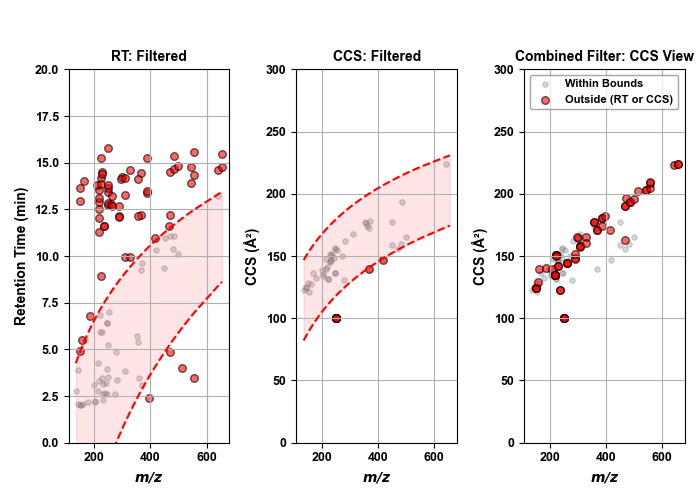
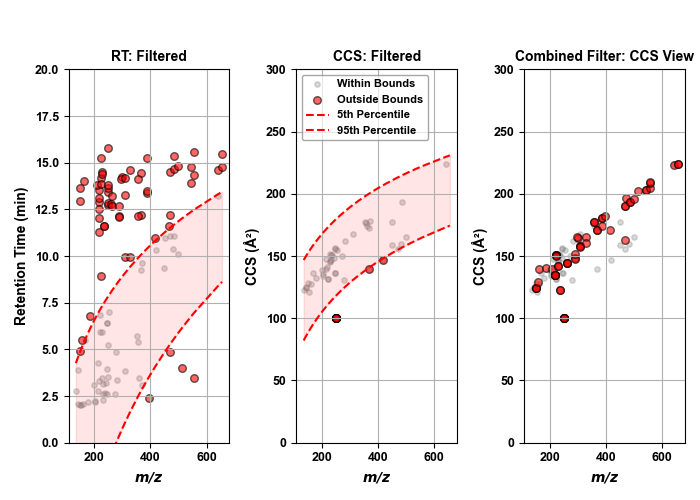
CCS bug excluded fixed

Changed region(s): [[0.42, 0.15, 0.6, 0.27], [0.75, 0.15, 0.96, 0.21]]

diff --git a/PIMMS v1.2/modules/regression_analysis.py b/PIMMS v1.2/modules/regression_analysis.py
@@ -56,9 +56,9 @@ def exclude_ccs_values(adjusted_df, CCS_eq):
 
     q05 = CCS_eq["q05_slope"] * log_mz + CCS_eq["q05_intercept"]
     q95 = CCS_eq["q95_slope"] * log_mz + CCS_eq["q95_intercept"]
-
+    print(f"q05: {q05}")
     filtered = adjusted_df[
-        (adjusted_df["RT"] >= q05) & (adjusted_df["RT"] <= q95)
+        (adjusted_df["CCS"] >= q05) & (adjusted_df["CCS"] <= q95)
     ].copy()
     return filtered
 
@@ -194,9 +194,7 @@ def plot_filtered_ccs(
     # Axis labels, limits, and ticks
     ax.set_title(title, fontsize=10, fontweight="bold", fontfamily="Arial")
     ax.set_xlabel(r"$\mathbfit{m/z}$", fontsize=10, fontfamily="Arial")
-    ax.set_ylabel(
-        "Retention Time (min)", fontsize=10, fontweight="bold", fontfamily="Arial"
-    )
+    ax.set_ylabel("CCS", fontsize=10, fontweight="bold", fontfamily="Arial")
     ax.set_ylim(0, 300)
     ax.grid(True)
     ax.tick_params(axis="both", labelsize=9)
@@ -348,9 +346,9 @@ def plot_triple_panel(adjusted_df, filtered_rt, filtered_ccs, rt_eq, ccs_eq):
             label.set_fontweight("bold")
 
     # Shared legend
-    handles, labels = axes[2].get_legend_handles_labels()
+    handles, labels = axes[1].get_legend_handles_labels()
     unique = dict(zip(labels, handles))
-    legend = axes[2].legend(
+    legend = axes[1].legend(
         unique.values(),
         unique.keys(),
         loc="upper left",
@@ -389,14 +387,13 @@ def main():
     # Run quantile regression on CCS (doesn't need to return anything for this use case)
     print("\nRunning Quantile Regression on CCS...")
     ccs_eq = run_CCS_regression_analysis(library_file)
-    print(ccs_eq)
     RT_eq = run_RT_regression_analysis(library_file)
-    print(RT_eq)
+
     adjusted_path = r"PIMMS v1.2\Data_output\PIMMS Processed Data set.csv"
     adjusted_df = pd.read_csv(adjusted_path)
 
     filtered_df_rt = exclude_rt_values(adjusted_df, RT_eq)
-    filtered_df_ccs = exclude_ccs_values(adjusted_df, RT_eq)
+    filtered_df_ccs = exclude_ccs_values(adjusted_df, ccs_eq)
 
     plot_triple_panel(adjusted_df, filtered_df_rt, filtered_df_ccs, RT_eq, ccs_eq)
 
